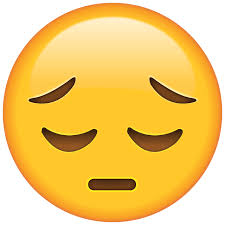
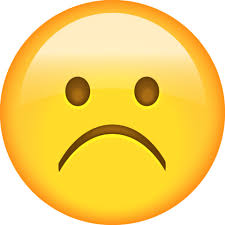
Add more actions and update emoji images

diff --git a/src/store.js b/src/store.js
@@ -30,7 +30,7 @@ export type MessageType = {
 export type State = {
   isShowingScores: boolean,
   isConnectedWithSlack: boolean,
-  channelData: {[string]: ?{[Id]: MessageType}},
+  channelData: {[string]: ?{[Id]: {[Id]: MessageType}}},
   scoreData: {[string]: ?number},
 };
 
@@ -52,11 +52,34 @@ function storeReducer(state: State, action): State {
         ...state,
         channelData,
       };
-
+    case 'RECEIVED_MESSAGES_FOR_CHANNEL':
+      const newChannelData = { ...state.channelData };
+      newChannelData[action.channel] = {...newChannelData[action.channel]};
+      const messageIds = Object.keys(action.messages);
+      messageIds.forEach(id => {
+        newChannelData[action.channel][id] = action.messages[id];
+      });
+      return {
+        ...state,
+        channelData: newChannelData,
+      };
+    case 'RECEIVED_CURRENT_SCORE_FOR_CHANNEL':
+        const scoreData = {...state.scoreData};
+        scoreData[action.channel] = action.score;
+        return {
+          ...state,
+          scoreData,
+        }
     default:
       return state;
   }
 }
+
+
+//
+// store.dispatch({type: 'RECEIVED_MESSAGES_FOR_CHANNEL', channel: '#random', messages: {"1": {"id": 1, "text": "lalaland", "avatarImage": "Lena", "name": "Lena Dunham", "timestamp": "2017-08-01"}, "2": {"id": 2, "text": "hi", "avatarImage": "Jenny", "name": "Jennifer", "timestamp": "2017-08-02"}}})
+
+// store.dispatch({type: 'RECEIVED_CURRENT_SCORE_FOR_CHANNEL', channel: '#random', scoreData: 2})
 
 const store = createStore(
   storeReducer,

diff --git a/src/Toolbar.jsx b/src/Toolbar.jsx
@@ -29,14 +29,13 @@ const emojis = Object.keys(images).reduce(
 );
 
 const scoreToEmoji =
-[
-  'angry',
-  'sad',
-  'disappointed',
-  'neutral',
-  'smile',
-  'happy',
-];
+  [
+    'frustrated',
+    'sad',
+    'neutral',
+    'smile',
+    'happy',
+  ];
 
 type Props = {
   color: string,
@@ -45,15 +44,16 @@ type Props = {
 };
 
 export default class Toolbar extends React.Component {
+
+  componentWillMount() {
+    store.subscribe(() => this.forceUpdate());
+  }
+
   props: {
     color: string,
     isShowingScores: boolean,
     score: mixed,
   };
-
-  componentWillMount() {
-    store.subscribe(() => this.forceUpdate());
-  }
 
   render() {
     const { color, score, isShowingScores } = this.props;

diff --git a/public/socketConnection.js b/public/socketConnection.js
@@ -9,6 +9,7 @@ socket.on('messages', (messages) => {
   console.log(messages);
   // this should dispatch an action
   data.messages = messages;
+  //processMessages(data);
 });
 
 socket.on('score', (score) => {

diff --git a/src/api.js b/src/api.js
@@ -8,3 +8,7 @@
 // }
 //
 // export { subscribeToInfo }
+
+// export function processMessages(data) {
+//
+// }
